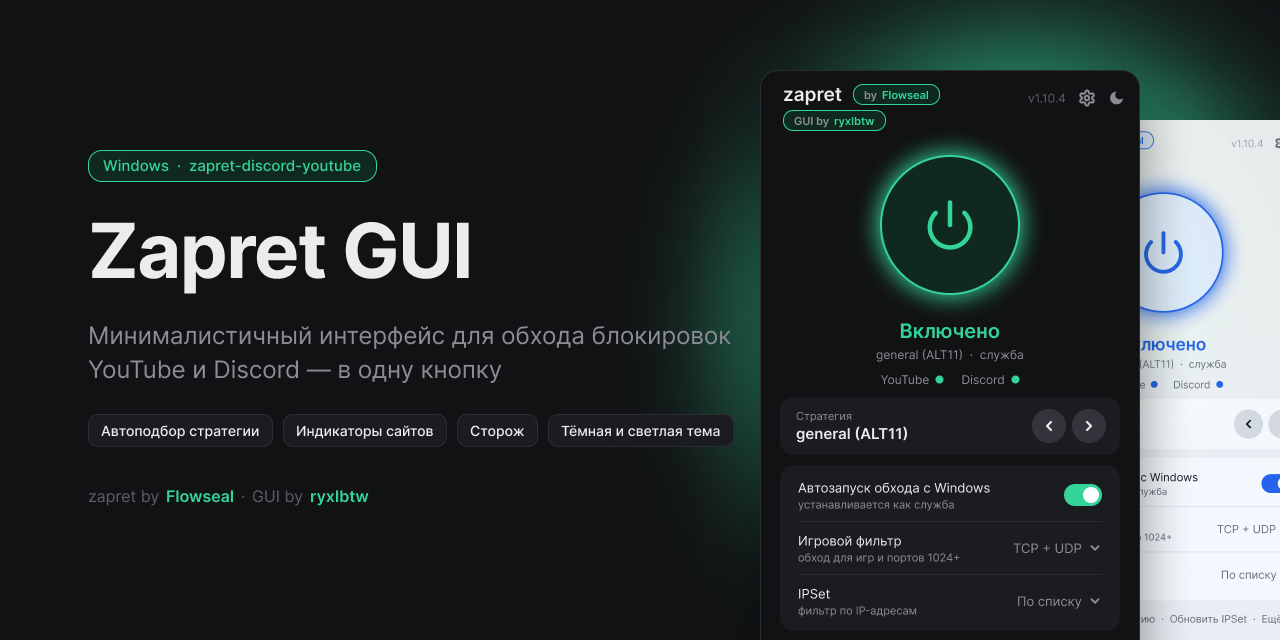
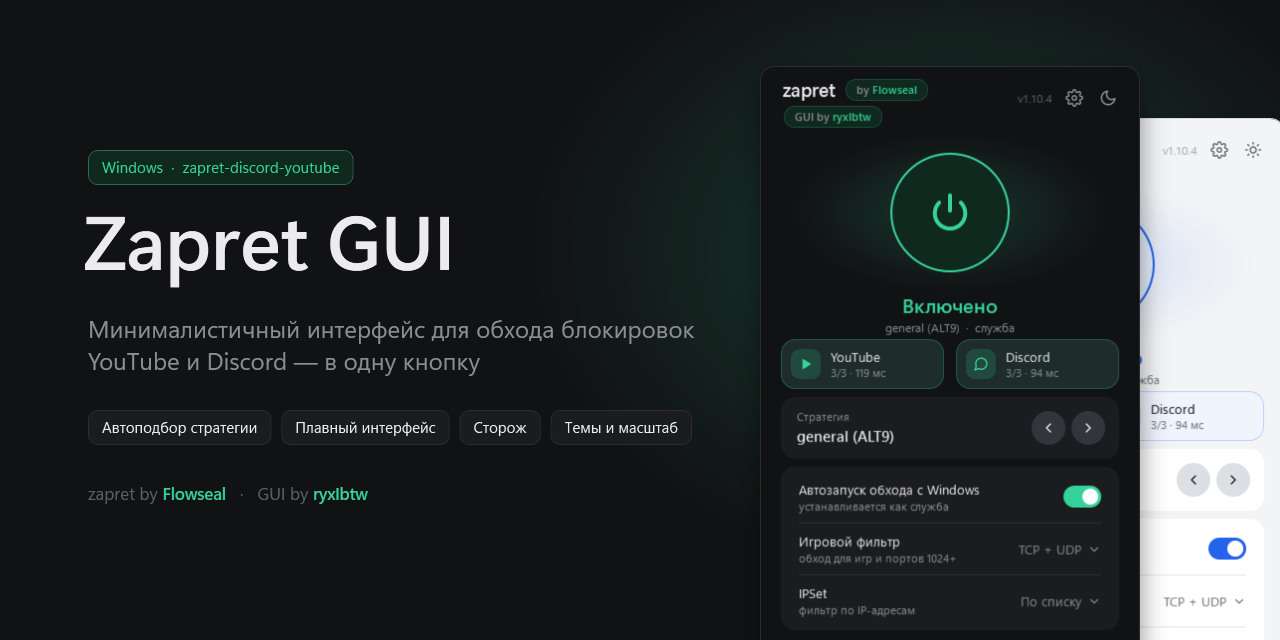
README images from the WPF version; fix clipped footer on the main page; snapshot options (language, 2x)

diff --git a/src/wpf/WMain.cs b/src/wpf/WMain.cs
@@ -66,6 +66,8 @@ namespace ZapretGui
                 settingsOpen = Environment.GetEnvironmentVariable("ZAPRETGUI_SNAP_PAGE") == "settings";
                 string acc = Environment.GetEnvironmentVariable("ZAPRETGUI_SNAP_ACCENT"), th = Environment.GetEnvironmentVariable("ZAPRETGUI_SNAP_THEME");
                 string sc = Environment.GetEnvironmentVariable("ZAPRETGUI_SNAP_SCALE");
+                string lang = Environment.GetEnvironmentVariable("ZAPRETGUI_SNAP_LANG");
+                if (lang != null) L.En = lang == "en";
                 if (acc != null) Theme.AccentName = acc;
                 if (sc != null) Theme.SetScale(1f, int.Parse(sc) / 100f);
                 if (th != null) Theme.ApplyMode(th); else Theme.Apply(Theme.IsLight);
@@ -246,7 +248,7 @@ namespace ZapretGui
                 Tuple.Create<string, Action<FlatLink>>(L.T("Подобрать стратегию", "Find a strategy"), l => AutoPick()),
                 Tuple.Create<string, Action<FlatLink>>(L.T("Обновить IPSet", "Update IPSet"), l => UpdateIpset()),
                 Tuple.Create<string, Action<FlatLink>>(L.T("Ещё", "More"), l => ShowMoreMenu(l)));
-            foot.Margin = new Thickness(0, 10, 0, 0);
+            foot.Margin = new Thickness(0, 8, 0, 0);
             sp.Children.Add(foot);
             mainPage.Children.Add(sp);
         }

diff --git a/src/wpf/AppMain.cs b/src/wpf/AppMain.cs
@@ -154,7 +154,10 @@ namespace ZapretGui
             el.UpdateLayout();
             int wpx = (int)Math.Ceiling(el.ActualWidth * (el.LayoutTransform is ScaleTransform ? ((ScaleTransform)el.LayoutTransform).ScaleX : 1));
             int hpx = (int)Math.Ceiling(el.ActualHeight * (el.LayoutTransform is ScaleTransform ? ((ScaleTransform)el.LayoutTransform).ScaleY : 1));
-            var rtb = new RenderTargetBitmap(Math.Max(1, wpx), Math.Max(1, hpx), 96, 96, PixelFormats.Pbgra32);
+            double k = 1;   // ZAPRETGUI_SNAP_DPI=2 — снимок в двойном разрешении (для картинок в README)
+            double.TryParse(Environment.GetEnvironmentVariable("ZAPRETGUI_SNAP_DPI") ?? "1", System.Globalization.NumberStyles.Float, System.Globalization.CultureInfo.InvariantCulture, out k);
+            if (k < 1) k = 1;
+            var rtb = new RenderTargetBitmap(Math.Max(1, (int)(wpx * k)), Math.Max(1, (int)(hpx * k)), 96 * k, 96 * k, PixelFormats.Pbgra32);
             var dv = new DrawingVisual();
             using (var dc = dv.RenderOpen())
             {

diff --git a/src/wpf/WPower.cs b/src/wpf/WPower.cs
@@ -47,7 +47,7 @@ namespace ZapretGui
             glowHost.Children.Add(glow);
 
             // область должна вмещать пятно света целиком, иначе WPF обрежет его по краям
-            var stage = new Grid { Width = compact ? ring + 40 : size * 2.6 + 8, Height = compact ? ring : size + 46, HorizontalAlignment = HorizontalAlignment.Center, VerticalAlignment = VerticalAlignment.Top };
+            var stage = new Grid { Width = compact ? ring + 40 : size * 2.6 + 8, Height = compact ? ring : size + 38, HorizontalAlignment = HorizontalAlignment.Center, VerticalAlignment = VerticalAlignment.Top };
             if (!compact) stage.Children.Add(glowHost);
 
             ripple = new Ellipse { Width = size, Height = size, Stroke = W.Accent, StrokeThickness = 2.5, Opacity = 0, IsHitTestVisible = false,
